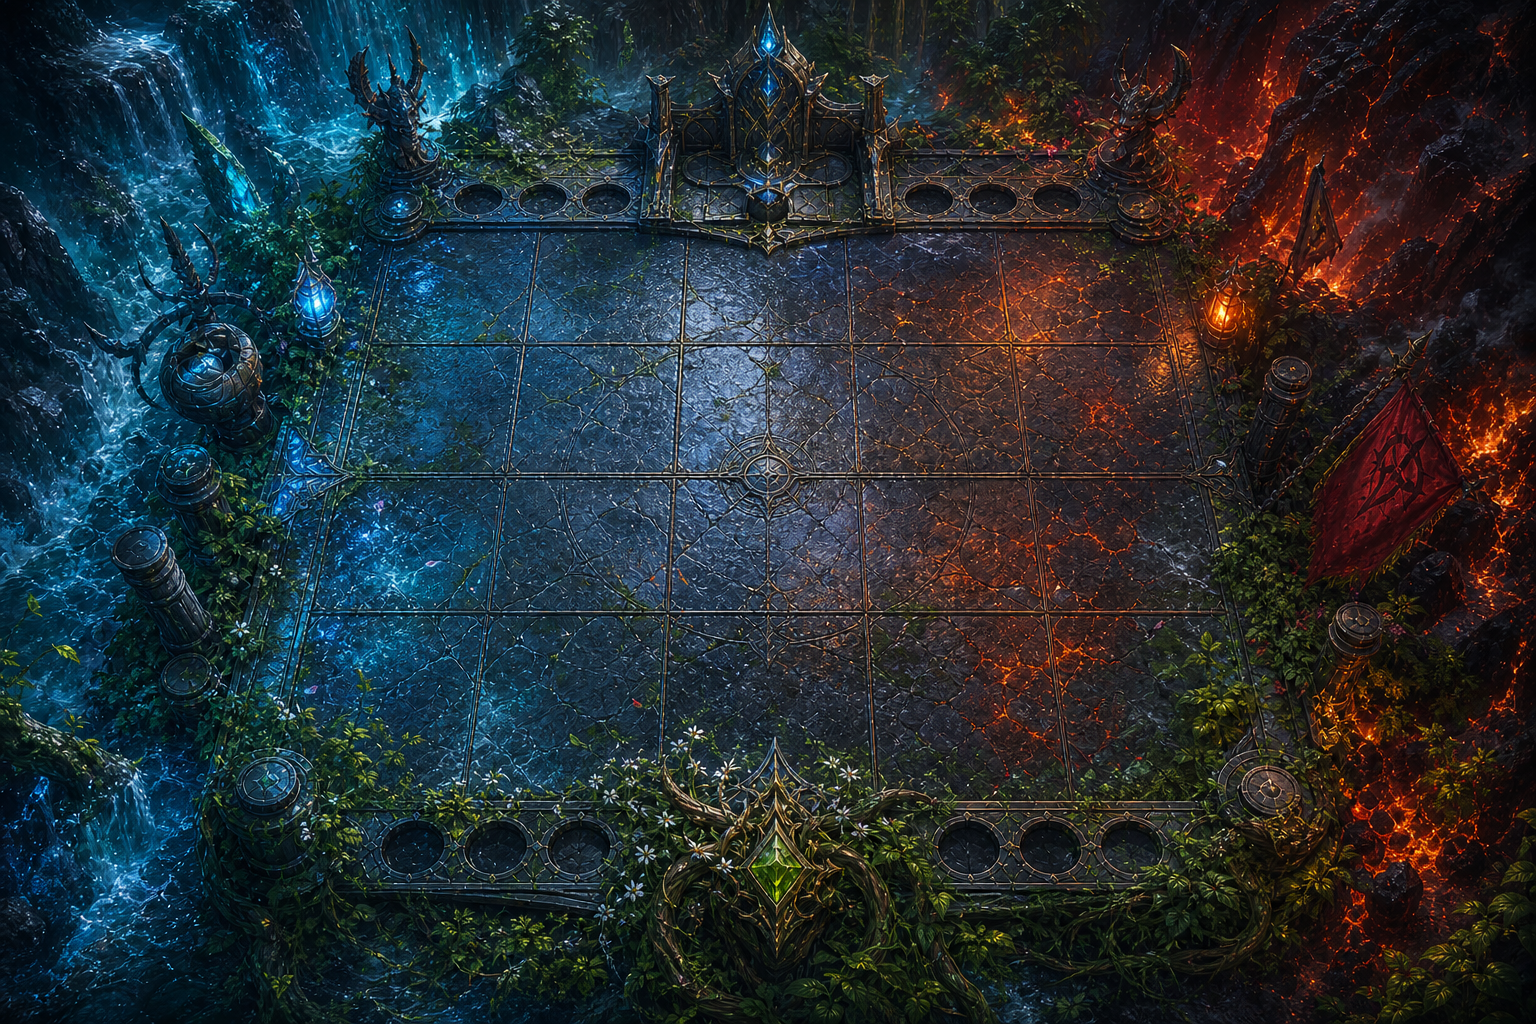
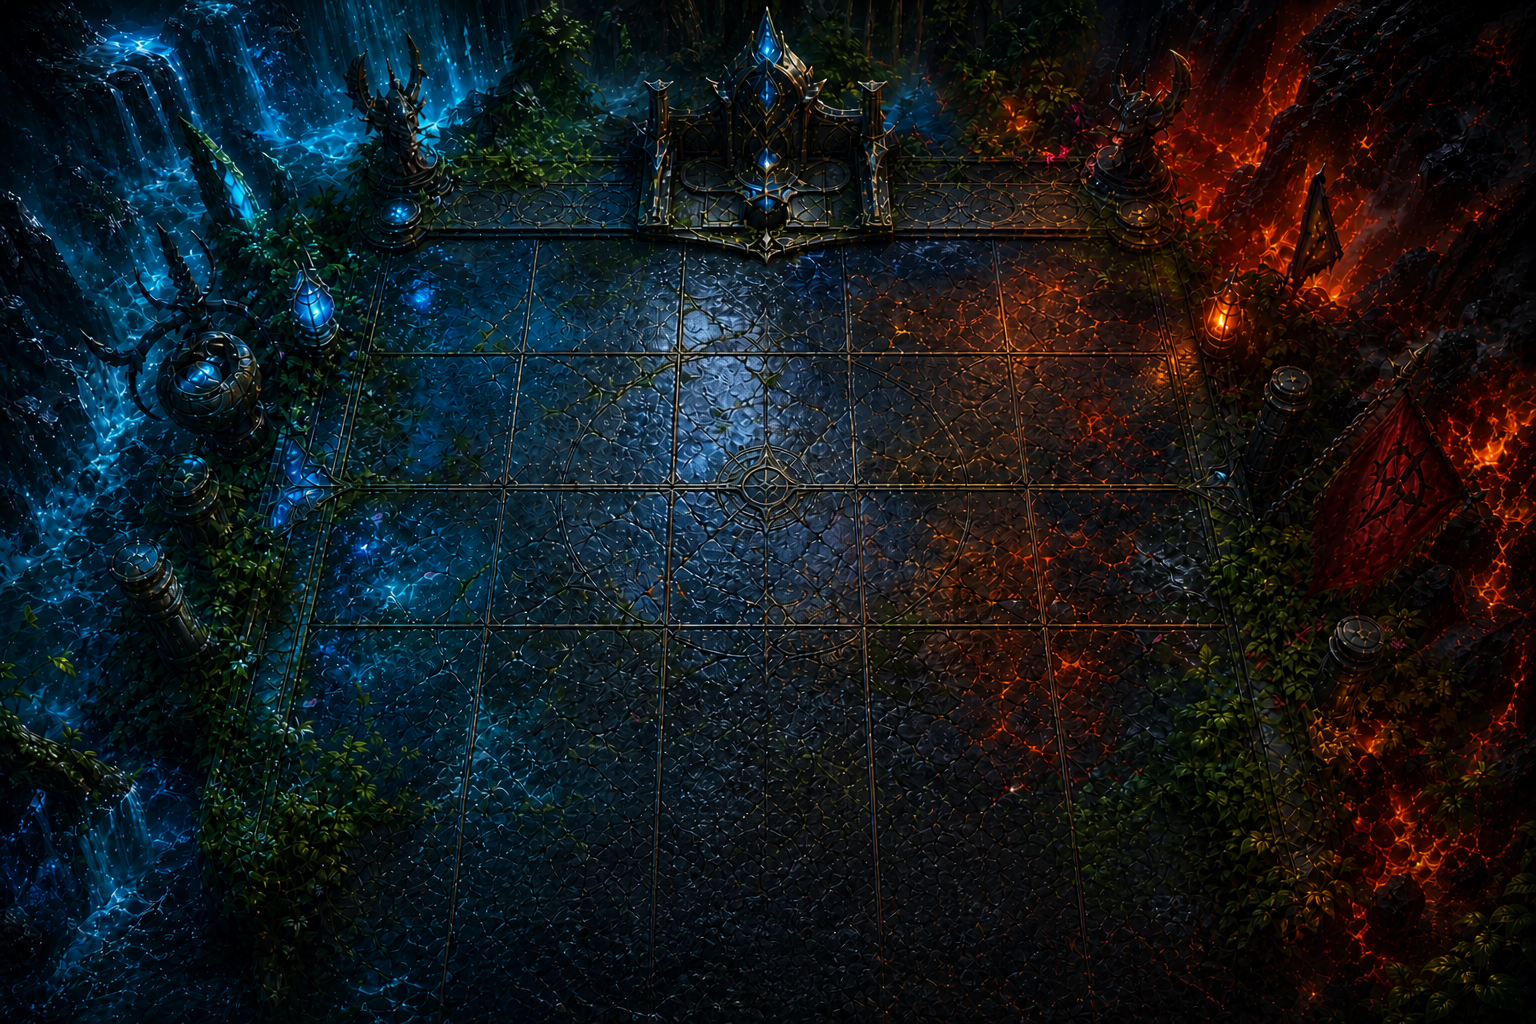
improve the hover function and rebuild battlefield and handarea background

diff --git a/CardGame/frontend/src/components/game/HandCard.jsx b/CardGame/frontend/src/components/game/HandCard.jsx
@@ -28,33 +28,6 @@ export default function HandCard({ card, isSelected, selectionIndex, onClick }) 
 
   return (
     <>
-      {/* 悬浮大图预览 */}
-      {hovered && !isSelected && (
-        <div style={{
-          position:      'fixed',
-          bottom:        185,
-          left:          '50%',
-          transform:     'translateX(-50%)',
-          zIndex:        100,
-          pointerEvents: 'none',
-          animation:     'popIn 0.15s ease-out forwards',
-        }}>
-          <div style={{
-            width: 180, height: 260,
-            borderRadius: 16,
-            border: `2px solid ${theme.border}`,
-            overflow: 'hidden',
-            boxShadow: `0 0 40px ${theme.glow}, 0 20px 60px rgba(0,0,0,0.8)`,
-          }}>
-            <img
-              src={card.image}
-              alt={card.name}
-              style={{ width: '100%', height: '100%', objectFit: 'cover', display: 'block' }}
-            />
-          </div>
-        </div>
-      )}
-
       {/* 手牌本体 */}
       <div
         onClick={onClick}
@@ -83,21 +56,54 @@ export default function HandCard({ card, isSelected, selectionIndex, onClick }) 
             : hovered
               ? `0 8px 20px rgba(0,0,0,0.5), 0 0 12px ${theme.glow}`
               : '0 4px 12px rgba(0,0,0,0.5)',
-          overflow:   'hidden',
+          overflow:   'visible',
           userSelect: 'none',
         }}
       >
-        {/* 图片占满整张卡 */}
-        <img
-          src={card.image}
-          alt={card.name}
-          style={{
-            width: '100%', height: '100%',
-            objectFit: 'cover', display: 'block',
-            transition: 'transform 0.3s ease',
-            transform: hovered || isSelected ? 'scale(1.06)' : 'scale(1)',
-          }}
-        />
+        {/* 图片容器（overflow hidden 单独套一层） */}
+        <div style={{
+          position: 'absolute', inset: 0,
+          borderRadius: 10,
+          overflow: 'hidden',
+        }}>
+          <img
+            src={card.image}
+            alt={card.name}
+            style={{
+              width: '100%', height: '100%',
+              objectFit: 'cover', display: 'block',
+              transition: 'transform 0.3s ease',
+              transform: hovered || isSelected ? 'scale(1.06)' : 'scale(1)',
+            }}
+          />
+        </div>
+
+        {/* 悬浮大图预览 —— 跟着牌的位置 */}
+        {hovered && !isSelected && (
+          <div style={{
+            position:      'absolute',
+            bottom:        'calc(100% + 12px)',
+            left:          '50%',
+            transform:     'translateX(-50%)',
+            zIndex:        100,
+            pointerEvents: 'none',
+            animation:     'popIn 0.15s ease-out forwards',
+          }}>
+            <div style={{
+              width: 180, height: 260,
+              borderRadius: 16,
+              border: `2px solid ${theme.border}`,
+              overflow: 'hidden',
+              boxShadow: `0 0 40px ${theme.glow}, 0 20px 60px rgba(0,0,0,0.8)`,
+            }}>
+              <img
+                src={card.image}
+                alt={card.name}
+                style={{ width: '100%', height: '100%', objectFit: 'cover', display: 'block' }}
+              />
+            </div>
+          </div>
+        )}
 
         {/* 选中序号 */}
         {isSelected && (
@@ -118,10 +124,11 @@ export default function HandCard({ card, isSelected, selectionIndex, onClick }) 
         {isSelected && (
           <div style={{
             position: 'absolute', bottom: 0, left: 0, right: 0,
-            height: 3,
+            height: 3, borderRadius: '0 0 10px 10px',
             background: `linear-gradient(90deg, transparent, ${theme.borderSel}, transparent)`,
           }} />
         )}
+
       </div>
 
       <style>{`

diff --git a/CardGame/frontend/src/components/game/HandArea.jsx b/CardGame/frontend/src/components/game/HandArea.jsx
@@ -17,12 +17,13 @@ export default function HandArea({
       gap: 10,
       padding: '0 80px 12px 16px',
       background: `
-        linear-gradient(0deg,
-          rgba(0,0,0,0.95) 0%,
-          rgba(10,8,4,0.85) 60%,
-          transparent 100%
-        )
-      `,
+      linear-gradient(0deg,
+        rgba(0,0,0,0.7) 0%,
+        rgba(0,0,0,0.3) 40%,
+        transparent 100%
+      ),
+      url('/images/handarea.png') center/cover no-repeat
+    `,
       borderTop:  '1px solid rgba(120,80,20,0.3)',
       flexShrink: 0,
       overflow:   'visible',